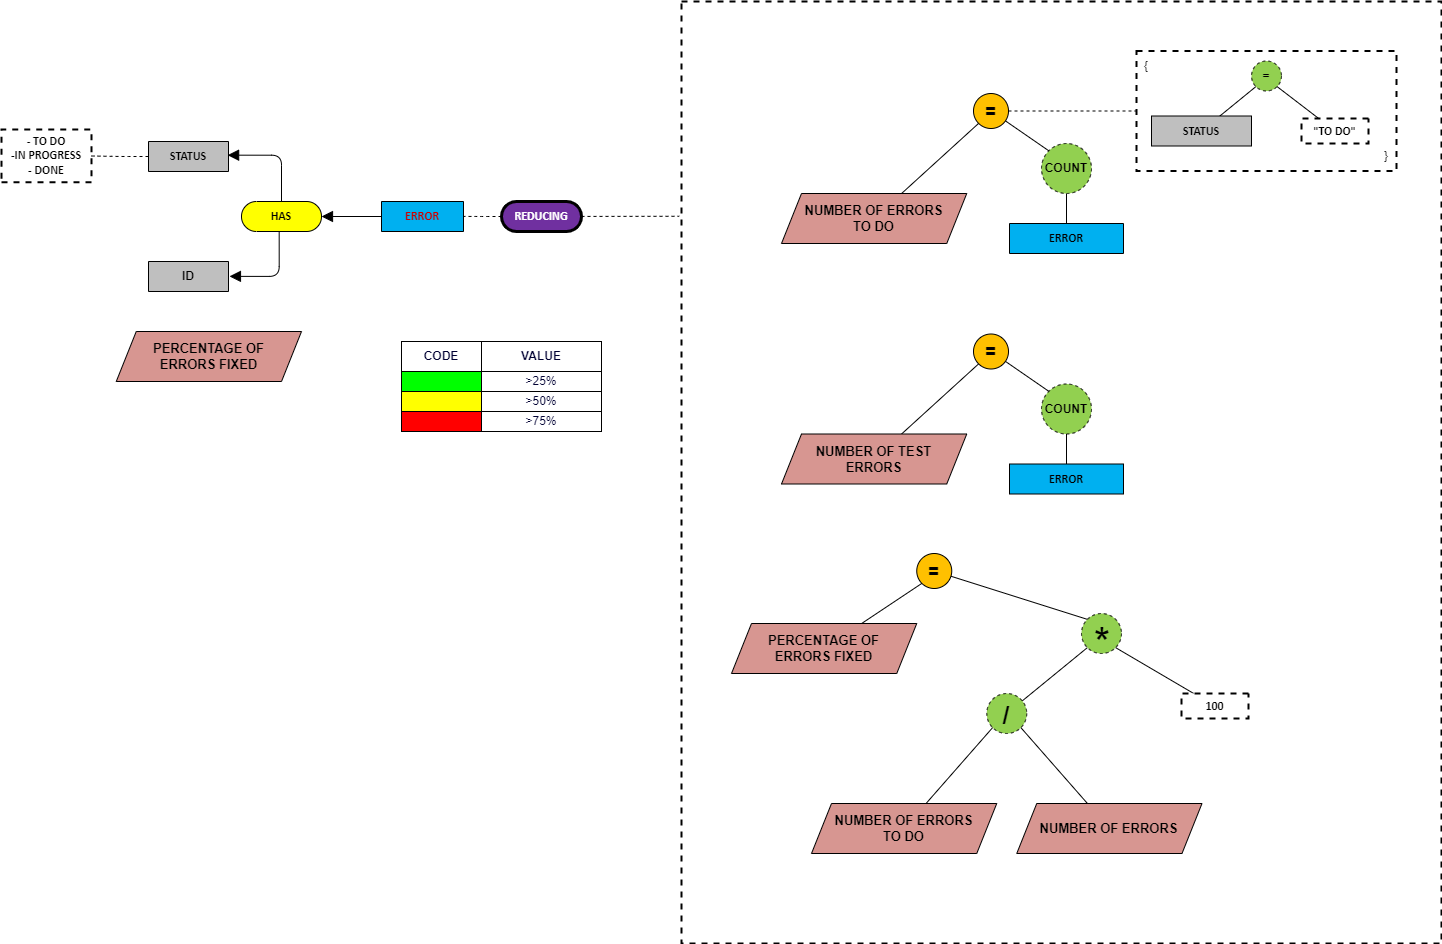
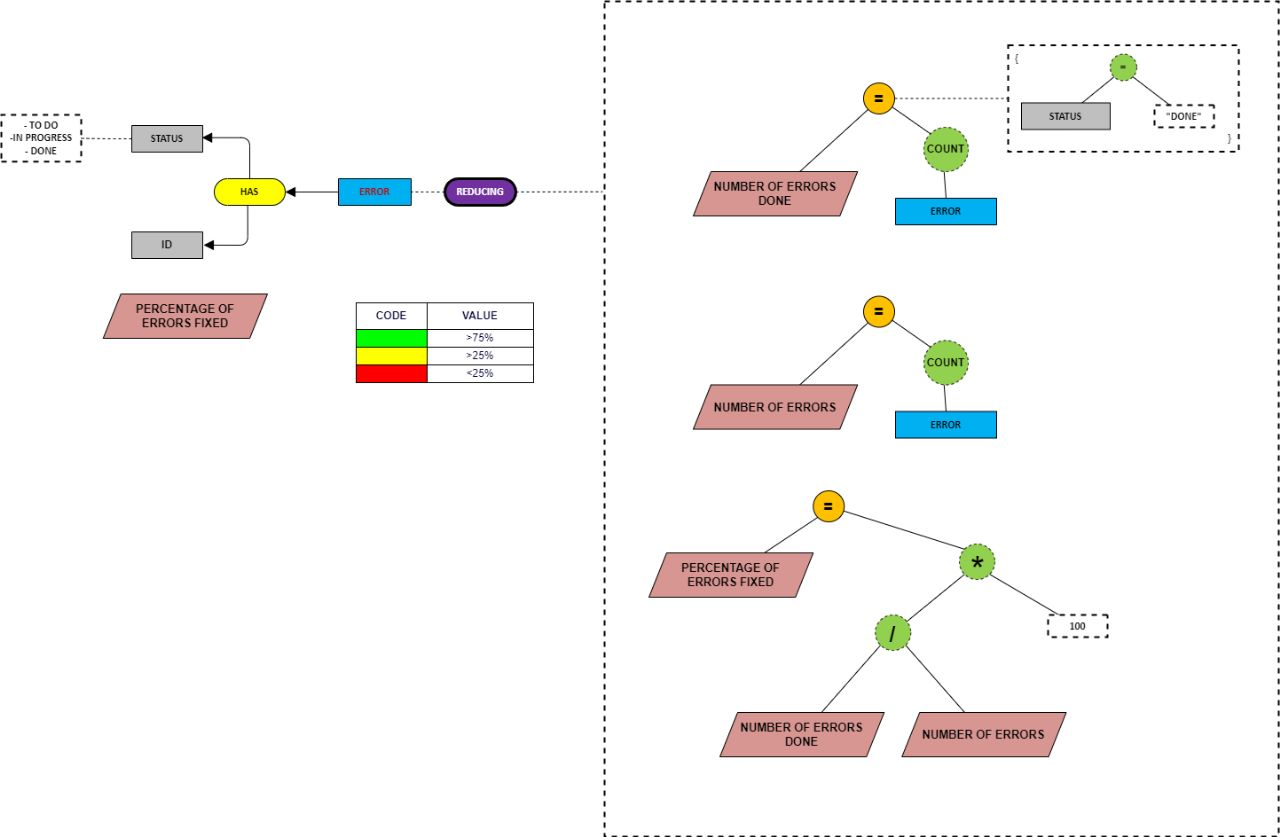
Added KPI formulas

diff --git a/alpha_prototype.html b/alpha_prototype.html
@@ -7030,7 +7030,7 @@
                 <path
                     d="M 3385 1401.07 L 3435 1401.07 C 3443.28 1401.07 3450 1394.35 3450 1386.07 C 3450 1377.79 3443.28 1371.07 3435 1371.07 L 3385 1371.07 C 3376.72 1371.07 3370 1377.79 3370 1386.07 C 3370 1394.35 3376.72 1401.07 3385 1401.07"
                     fill="#ffff00" stroke="#000000" stroke-width="3" stroke-miterlimit="10" stroke-dasharray="9 9"
-                    pointer-events="all" class="dynamic-relationship" onclick="loadData()"/>
+                    pointer-events="all" class="dynamic-relationship" onclick="loadData()" />
                 <g transform="translate(-0.5 -0.5)">
                     <switch>
                         <foreignObject pointer-events="none" width="100%" height="100%"
@@ -7114,7 +7114,7 @@
         </svg>
     </div>
 </body>
-<div class="modal fade" id="PRODUCT_OWNER-DEFINES-USER_STORY-modal" tabindex="-1" role="dialog">
+<div class="modal fade form-modal" id="PRODUCT_OWNER-DEFINES-USER_STORY-modal" tabindex="-1" role="dialog">
     <div class="modal-dialog modal-lg" role="document">
         <div class="modal-content">
             <div class="modal-header">
@@ -7176,7 +7176,7 @@
         </div>
     </div>
 </div>
-<div class="modal fade" id="ADMINISTRATOR-REGISTERS-SOFTWARE_SYSTEM-modal" tabindex="-1" role="dialog">
+<div class="modal fade form-modal" id="ADMINISTRATOR-REGISTERS-SOFTWARE_SYSTEM-modal" tabindex="-1" role="dialog">
     <div class="modal-dialog modal-lg" role="document">
         <div class="modal-content">
             <div class="modal-header">
@@ -7212,7 +7212,7 @@
         </div>
     </div>
 </div>
-<div class="modal fade" id="ADMINISTRATOR-REGISTERS-QUALITY_ANALYST-modal" tabindex="-1" role="dialog">
+<div class="modal fade form-modal" id="ADMINISTRATOR-REGISTERS-QUALITY_ANALYST-modal" tabindex="-1" role="dialog">
     <div class="modal-dialog modal-lg" role="document">
         <div class="modal-content">
             <div class="modal-header">
@@ -7254,7 +7254,7 @@
         </div>
     </div>
 </div>
-<div class="modal fade" id="ADMINISTRATOR-REGISTERS-QUALITY_MANAGER-modal" tabindex="-1" role="dialog">
+<div class="modal fade form-modal" id="ADMINISTRATOR-REGISTERS-QUALITY_MANAGER-modal" tabindex="-1" role="dialog">
     <div class="modal-dialog modal-lg" role="document">
         <div class="modal-content">
             <div class="modal-header">
@@ -7296,7 +7296,7 @@
         </div>
     </div>
 </div>
-<div class="modal fade" id="ADMINISTRATOR-REGISTERS-DEVELOPER-modal" tabindex="-1" role="dialog">
+<div class="modal fade form-modal" id="ADMINISTRATOR-REGISTERS-DEVELOPER-modal" tabindex="-1" role="dialog">
     <div class="modal-dialog modal-lg" role="document">
         <div class="modal-content">
             <div class="modal-header">
@@ -7337,7 +7337,7 @@
         </div>
     </div>
 </div>
-<div class="modal fade" id="ADMINISTRATOR-REGISTERS-SOFTWARE_ARCHITECT-modal" tabindex="-1" role="dialog">
+<div class="modal fade form-modal" id="ADMINISTRATOR-REGISTERS-SOFTWARE_ARCHITECT-modal" tabindex="-1" role="dialog">
     <div class="modal-dialog modal-lg" role="document">
         <div class="modal-content">
             <div class="modal-header">
@@ -7379,7 +7379,7 @@
         </div>
     </div>
 </div>
-<div class="modal fade" id="ADMINISTRATOR-REGISTERS-PRODUCT_OWNER-modal" tabindex="-1" role="dialog">
+<div class="modal fade form-modal" id="ADMINISTRATOR-REGISTERS-PRODUCT_OWNER-modal" tabindex="-1" role="dialog">
     <div class="modal-dialog modal-lg" role="document">
         <div class="modal-content">
             <div class="modal-header">
@@ -7421,7 +7421,7 @@
         </div>
     </div>
 </div>
-<div class="modal fade" id="ADMINISTRATOR-REGISTERS-STAKEHOLDER-modal" tabindex="-1" role="dialog">
+<div class="modal fade form-modal" id="ADMINISTRATOR-REGISTERS-STAKEHOLDER-modal" tabindex="-1" role="dialog">
     <div class="modal-dialog modal-lg" role="document">
         <div class="modal-content">
             <div class="modal-header">
@@ -7466,7 +7466,7 @@
         </div>
     </div>
 </div>
-<div class="modal fade" id="PRODUCT_OWNER-IDENTIFIES-REQUIREMENT-modal" tabindex="-1" role="dialog">
+<div class="modal fade form-modal" id="PRODUCT_OWNER-IDENTIFIES-REQUIREMENT-modal" tabindex="-1" role="dialog">
     <div class="modal-dialog modal-lg" role="document">
         <div class="modal-content">
             <div class="modal-header">
@@ -7516,7 +7516,7 @@
         </div>
     </div>
 </div>
-<div class="modal fade" id="SOFTWARE_ARCHITECT-DESIGNS-SOFTWARE_SYSTEM-modal" tabindex="-1" role="dialog">
+<div class="modal fade form-modal" id="SOFTWARE_ARCHITECT-DESIGNS-SOFTWARE_SYSTEM-modal" tabindex="-1" role="dialog">
     <div class="modal-dialog modal-lg" role="document">
         <div class="modal-content">
             <div class="modal-header">
@@ -7572,7 +7572,7 @@
         </div>
     </div>
 </div>
-<div class="modal fade" id="SOFTWARE_ARCHITECT-DEFINES-SOFTWARE_ELEMENT-modal" tabindex="-1" role="dialog">
+<div class="modal fade form-modal" id="SOFTWARE_ARCHITECT-DEFINES-SOFTWARE_ELEMENT-modal" tabindex="-1" role="dialog">
     <div class="modal-dialog modal-lg" role="document">
         <div class="modal-content">
             <div class="modal-header">
@@ -7618,7 +7618,7 @@
         </div>
     </div>
 </div>
-<div class="modal fade" id="DEVELOPER-DEVELOPS-SOFTWARE_ELEMENT-modal" tabindex="-1" role="dialog">
+<div class="modal fade form-modal" id="DEVELOPER-DEVELOPS-SOFTWARE_ELEMENT-modal" tabindex="-1" role="dialog">
     <div class="modal-dialog modal-lg" role="document">
         <div class="modal-content">
             <div class="modal-header">
@@ -7684,7 +7684,7 @@
         </div>
     </div>
 </div>
-<div class="modal fade" id="QUALITY_MANAGER-ESTABLISHES-TEST_PLAN-modal" tabindex="-1" role="dialog">
+<div class="modal fade form-modal" id="QUALITY_MANAGER-ESTABLISHES-TEST_PLAN-modal" tabindex="-1" role="dialog">
     <div class="modal-dialog modal-lg" role="document">
         <div class="modal-content">
             <div class="modal-header">
@@ -7764,7 +7764,7 @@
         </div>
     </div>
 </div>
-<div class="modal fade" id="QUALITY_MANAGER-DESIGNS-TEST_CASE-modal" tabindex="-1" role="dialog">
+<div class="modal fade form-modal" id="QUALITY_MANAGER-DESIGNS-TEST_CASE-modal" tabindex="-1" role="dialog">
     <div class="modal-dialog modal-lg" role="document">
         <div class="modal-content">
             <div class="modal-header">
@@ -7846,7 +7846,7 @@
         </div>
     </div>
 </div>
-<div class="modal fade" id="STAKEHOLDER-DESIGNS-TEST_CASE-modal" tabindex="-1" role="dialog">
+<div class="modal fade form-modal" id="STAKEHOLDER-DESIGNS-TEST_CASE-modal" tabindex="-1" role="dialog">
     <div class="modal-dialog modal-lg" role="document">
         <div class="modal-content">
             <div class="modal-header">
@@ -7928,7 +7928,7 @@
         </div>
     </div>
 </div>
-<div class="modal fade" id="QUALITY_ANALYST-EXECUTES-TEST_CASE-modal" tabindex="-1" role="dialog">
+<div class="modal fade form-modal" id="QUALITY_ANALYST-EXECUTES-TEST_CASE-modal" tabindex="-1" role="dialog">
     <div class="modal-dialog modal-lg" role="document">
         <div class="modal-content">
             <div class="modal-header">
@@ -8017,7 +8017,7 @@
         </div>
     </div>
 </div>
-<div class="modal fade" id="QUALITY_ANALYST-REPORTS-ERROR-modal" tabindex="-1" role="dialog">
+<div class="modal fade form-modal" id="QUALITY_ANALYST-REPORTS-ERROR-modal" tabindex="-1" role="dialog">
     <div class="modal-dialog modal-lg" role="document">
         <div class="modal-content">
             <div class="modal-header">
@@ -8074,7 +8074,7 @@
         </div>
     </div>
 </div>
-<div class="modal fade" id="QUALITY_ANALYST-MAKES-TEST_INCIDENT_REPORT-modal" tabindex="-1" role="dialog">
+<div class="modal fade form-modal" id="QUALITY_ANALYST-MAKES-TEST_INCIDENT_REPORT-modal" tabindex="-1" role="dialog">
     <div class="modal-dialog modal-lg" role="document">
         <div class="modal-content">
             <div class="modal-header">
@@ -8157,7 +8157,7 @@
         </div>
     </div>
 </div>
-<div class="modal fade" id="DEVELOPER-FIXES-ERROR-modal" tabindex="-1" role="dialog">
+<div class="modal fade form-modal" id="DEVELOPER-FIXES-ERROR-modal" tabindex="-1" role="dialog">
     <div class="modal-dialog modal-lg" role="document">
         <div class="modal-content">
             <div class="modal-header">
@@ -8302,6 +8302,40 @@
         </div>
     </div>
 </div>
+<div class="modal fade" id="kpi-modal" tabindex="-1" role="dialog">
+    <div class="modal-dialog modal-lg" role="document">
+        <div class="modal-content">
+            <div class="modal-header">
+                <h5 class="modal-title" id="kpi-title"></h5>
+                <button type="button" class="close" data-dismiss="modal" aria-label="Close">
+                    <span aria-hidden="true">&times;</span>
+                </button>
+            </div>
+            <div class="modal-body">
+                <div class="row justify-content-center">
+                    <div class="col-5">
+                        <div>
+                            <img id="kpiEquationImage" class="my-1 px-2" width="100%">
+                        </div>
+                    </div>
+                </div>
+                <hr>
+                <div class="row justify-content-center mt-2">
+                    <div class="col-10">
+                        <div>
+                            <label for="kpiEquationResult" id="kpiName"></label>
+                            <input type="number" class="form-control" name="kpiEquationResult" id="kpiEquationResult"
+                                disabled>
+                        </div>
+                    </div>
+                </div>
+            </div>
+            <div class="modal-footer">
+                <button type="button" class="btn btn-danger" data-dismiss="modal">Close</button>
+            </div>
+        </div>
+    </div>
+</div>
 <input type="file" name="load_files" id="file-input" hidden accept="application/json">
 <script src="constant.js"></script>
 <script type="text/javascript">
@@ -8346,10 +8380,24 @@
     });
 
     $('.achievement-relationship').dblclick(function () {
-        $('#achievement-relationship-title').html(achievementVerbsInfo[this.id])
-        $('#kpiImage').prop('src',
-            `public/assets/KPI/${this.id}.png`).show();
-        $('#achievement-relationship-modal').modal();
+        $('#kpi-title').html(achievementVerbsInfo[this.id].goal);
+        $('#kpiName').html(achievementVerbsInfo[this.id].kpi);
+        $('#kpiEquationImage').prop('src', `public/assets/kpi-equations/${this.id}.png`).show();
+        const kpiResult = {
+            'REFINING-SOFTWARE_SYSTEM': percentageOfTestCasesPassed(),
+            'FULFILLING-REQUIREMENT': percentageOfSoftwareElementsDone(),
+            'MAINTAINING-SOFTWARE_SYSTEM': percentageOfTestCasesFailed(),
+            'REDUCING-ERROR': percentageOfErrorsFixed(),
+            'ENSURING-HAS': averageOfTestCasesPerSoftwareElement(),
+            'REFINING-TEST_PLAN': averageOfTestCasesPerRequirement(),
+            'ENHANCING-SOFTWARE_ELEMENT': averageOfTestCasesPassedPerSoftwareElement(),
+            'MAKING-TEST_CASE': averageOfRequirementsPerUserStory(),
+            'MAKING-SOFTWARE_ELEMENT': averageOfSoftwareElementsDonePerSoftwareSystem(),
+        }
+
+        $('#kpiEquationResult').val(kpiResult[this.id]);
+
+        $('#kpi-modal').modal();
     });
 
     $('.event-item').dblclick(function () {
@@ -8363,7 +8411,7 @@
 
     $('.achievement-relationship').contextmenu(function (e) {
         e.preventDefault()
-        $('#achievement-relationship-specification-title').html(achievementVerbsInfo[this.id])
+        $('#achievement-relationship-specification-title').html(achievementVerbsInfo[this.id].goal)
         $('#achievementRelationshipSpecificationImage').prop('src',
             `public/assets/achievement-relationship-specification/${this.id}.png`).show();
         $('#achievement-relationship-specification-modal').modal();
@@ -8401,7 +8449,7 @@
         }
     });
 
-    $('.modal').on('show.bs.modal', function () {
+    $('.form-modal').on('show.bs.modal', function () {
         clearFields();
     });
 
@@ -8789,6 +8837,85 @@
                 password: '123456'
             }]
         ));
+    }
+
+    function percentageOfTestCasesPassed() {
+        const testCases = JSON.parse(localStorage['testCases']);
+
+        const numberOfTestCasesPassed = testCases.filter((testCase) => testCase.result === 'PASSED').length;
+        const numberOfTestCases = testCases.length;
+        return (numberOfTestCasesPassed / numberOfTestCases) * 100;
+    }
+
+    function percentageOfSoftwareElementsDone() {
+        const softwareElements = JSON.parse(localStorage['softwareElements']);
+
+        const numberOfSoftwareElementsDone = softwareElements
+            .filter((softwareElement) => softwareElement.status === 'DONE')
+            .length;
+        const numberOfSoftwareElements = softwareElements.length;
+        return (numberOfSoftwareElementsDone / numberOfSoftwareElements) * 100;
+    }
+
+    function percentageOfTestCasesFailed() {
+        const testCases = JSON.parse(localStorage['testCases']);
+
+        const numberOfTestCasesFailed = testCases.filter((testCase) => testCase.result === 'FAILED').length;
+        const numberOfTestCases = testCases.length;
+        return (numberOfTestCasesFailed / numberOfTestCases) * 100;
+    }
+
+    function percentageOfErrorsFixed() {
+        const errors = JSON.parse(localStorage['errors']);
+
+        const numberOfErrorsFixed = errors.filter((error) => error.status === 'DONE').length;
+        const numberOfErrors = errors.length;
+        return (numberOfErrorsFixed / numberOfErrors) * 100;
+    }
+
+    function averageOfTestCasesPerSoftwareElement() {
+        const testCases = JSON.parse(localStorage['testCases']);
+        const softwareElements = JSON.parse(localStorage['softwareElements']);
+
+        const numberOfTestCases = testCases.length;
+        const numberOfSoftwareElements = softwareElements.length;
+        return (numberOfTestCases / numberOfSoftwareElements);
+    }
+
+    function averageOfTestCasesPerRequirement() {
+        const testCases = JSON.parse(localStorage['testCases']);
+        const requirements = JSON.parse(localStorage['requirements']);
+
+        const numberOfTestCases = testCases.length;
+        const numberOfRequirements = requirements.length;
+        return (numberOfTestCases / numberOfRequirements);
+    }
+
+    function averageOfTestCasesPassedPerSoftwareElement() {
+        const testCases = JSON.parse(localStorage['testCases']);
+        const softwareElements = JSON.parse(localStorage['softwareElements']);
+        
+        const numberOfTestCasesPassed = testCases.filter((testCase) => testCase.result === 'PASSED').length;
+        const numberOfSoftwareElements = softwareElements.length;
+        return (numberOfTestCasesPassed/numberOfSoftwareElements);
+    }
+
+    function averageOfRequirementsPerUserStory() {
+        const userStories = JSON.parse(localStorage['userStories']);
+        const requirements = JSON.parse(localStorage['requirements']);
+
+        const numberOfRequirements = requirements.length;
+        const numberOfUserStories = userStories.length;
+        return (numberOfRequirements / numberOfUserStories);
+    }
+
+    function averageOfSoftwareElementsDonePerSoftwareSystem() {
+        const softwareElements = JSON.parse(localStorage['softwareElements']);
+        const softwareSystems = JSON.parse(localStorage['softwareSystems']);
+
+        const numberOfSoftwareElements = softwareElements.filter((softwareElement) => softwareElement.status === 'DONE').length;
+        const numberOfSoftwareSystems = softwareSystems.length;
+        return (numberOfSoftwareElements / numberOfSoftwareSystems);
     }
 </script>
 

diff --git a/constant.js b/constant.js
@@ -143,7 +143,7 @@ const dynamicRelationshipsInfo = {
     },
     'DEVELOPER-FIXES-ERROR': {
         name: 'Developer Fixes Error',
-        fields: ['id','status'],
+        fields: ['id', 'status'],
         messages: {
             success: 'Error has been fixed successfully!',
         }
@@ -245,15 +245,15 @@ const classConceptsInfo = {
 }
 
 const achievementVerbsInfo = {
-    'REFINING-SOFTWARE_SYSTEM': 'REFINING SOFTWARE SYSTEM',
-    'FULFILLING-REQUIREMENT': 'FULFILLING THE REQUIREMENT',
-    'MAINTAINING-SOFTWARE_SYSYTEM': 'MANTAINING THE SOFTWARE SYSTEM',
-    'REDUCING-ERROR': 'REDUCING ERROR',
-    'ENSURING-HAS': 'ENSURING THE SOFTWARE ELEMENT HAS TEST CASE',
-    'REFINING-TEST_PLAN': 'REFINING THE TEST PLAN',
-    'ENHANCING-SOFTWARE_ELEMENT': 'ENHANCING THE SOFTWARE ELEMENT',
-    'MAKING-TEST_CASE': 'MAKING THE TEST CASE',
-    'MAKING-SOFTWARE_ELEMENT': 'MAKING THE SOFTWARE ELEMENT',
+    'REFINING-SOFTWARE_SYSTEM': { goal: 'REFINING SOFTWARE SYSTEM', kpi: 'Percentage of test cases passed' },
+    'FULFILLING-REQUIREMENT': { goal: 'FULFILLING THE REQUIREMENT', kpi: 'Percentage of software elements done' },
+    'MAINTAINING-SOFTWARE_SYSTEM': { goal: 'MANTAINING THE SOFTWARE SYSTEM', kpi: 'Percentage of test cases failed' },
+    'REDUCING-ERROR': { goal: 'REDUCING ERROR', kpi: 'Percentage of errors fixed' },
+    'ENSURING-HAS': { goal: 'ENSURING THE SOFTWARE ELEMENT HAS TEST CASE', kpi: 'Average of test cases per software element' },
+    'REFINING-TEST_PLAN': { goal: 'REFINING THE TEST PLAN', kpi: 'Average of test cases per requirement' },
+    'ENHANCING-SOFTWARE_ELEMENT': { goal: 'ENHANCING THE SOFTWARE ELEMENT', kpi: 'Average of test cases passed per software element' },
+    'MAKING-TEST_CASE': { goal: 'MAKING THE TEST CASE', kpi: 'Average of requirements per user story' },
+    'MAKING-SOFTWARE_ELEMENT': { goal: 'MAKING THE SOFTWARE ELEMENT', kpi: 'Average of software elements done per software system' },
 }
 
 const eventsInfo = {
